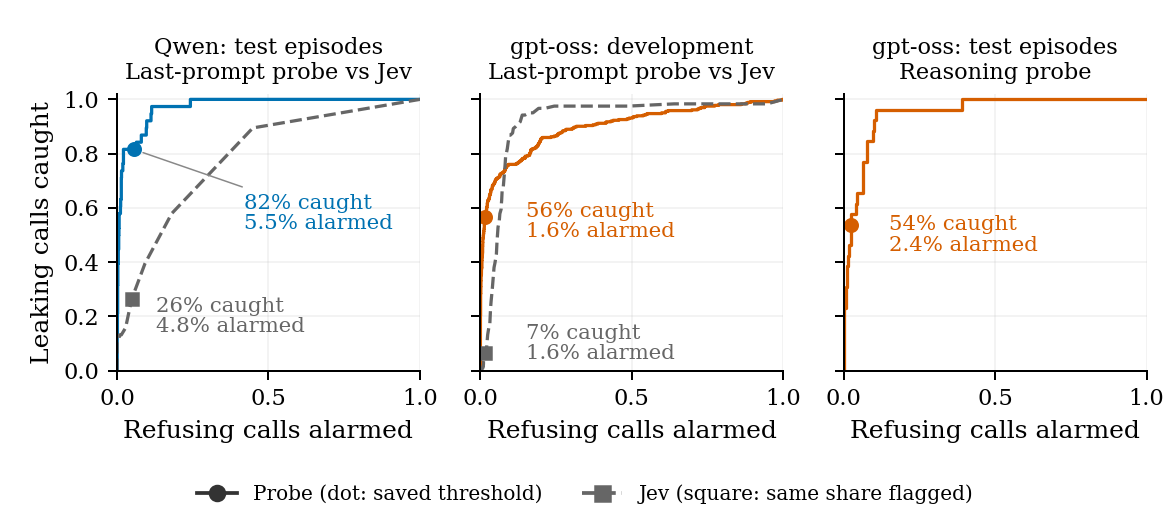
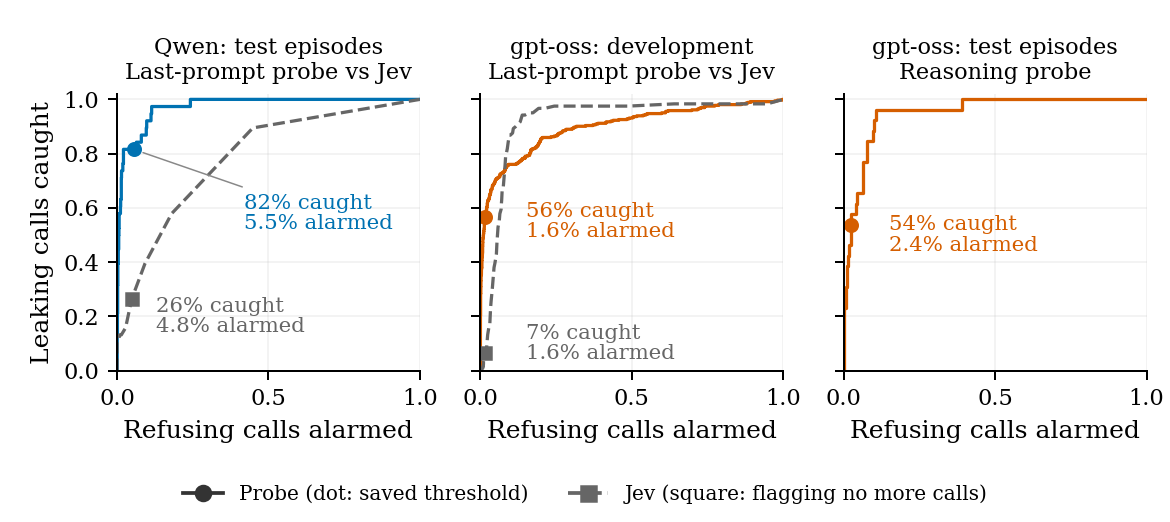
Fig 7 legends: Jev 'flagging no more calls' than the probe, not 'same share'

Changed region(s): [[0.4923, 0.9195, 0.8308, 0.9808], [0.1538, 0.9195, 0.4615, 0.9808]]

diff --git a/paper-arxiv/figures/src/make_alarm_tradeoffs.py b/paper-arxiv/figures/src/make_alarm_tradeoffs.py
@@ -41,7 +41,7 @@ def render(exports,result):
         ax.set_title(title.replace('fresh','test')+'\n'+('Reasoning probe' if 'fresh' in title and model=='gpt_oss' else 'Last-prompt probe vs Jev'),fontsize=9)
         ax.set(xlim=(0,1),ylim=(0,1.02),xticks=[0,.5,1],xlabel='Refusing calls alarmed');ax.grid(alpha=.15)
     axes[0].set_ylabel('Leaking calls caught')
-    fig.legend(handles=[Line2D([],[],color='#333333',marker='o',label='Probe (dot: saved threshold)'),Line2D([],[],color='#666666',ls='--',marker='s',label='Jev (square: same share flagged)')],loc='lower center',ncol=2,frameon=False,fontsize=8)
+    fig.legend(handles=[Line2D([],[],color='#333333',marker='o',label='Probe (dot: saved threshold)'),Line2D([],[],color='#666666',ls='--',marker='s',label='Jev (square: flagging no more calls)')],loc='lower center',ncol=2,frameon=False,fontsize=8)
     out=ROOT/'paper-arxiv/figures/fig7_alarm_tradeoffs';fig.savefig(out.with_suffix('.pdf'));fig.savefig(out.with_suffix('.png'),dpi=180)
     plt.close(fig)
     return out
@@ -61,7 +61,7 @@ def main():
         source[rel]=hashlib.sha256(path.read_bytes()).hexdigest();return path
     def j(rel):return json.loads(src(rel).read_text())
     panels=[]
-    # Jev's marker flags the same share of refusing calls as the probe (E13); curves sweep one global cut.
+    # Jev's marker: the lowest cut flagging no more refusing calls than the probe (E13); curves sweep one global cut.
     jcut={k:v['jev_cut'] for k,v in j('runs/20261028-0107-e13-matched-jev-d814/results.json').items() if k in ('qwen_test','gptoss_dev')}
     q=read(src('runs/20261026-2212-e05-arxiv-qwen-fresh-percall/probe_scores.csv.gz'))
     ever={f"{r['episode']}::request_idx={r['request_idx']}":bool(r['y_eventual']) for r in j('runs/20261026-2155-e05-qwen-any-public-audit/rows.json')}

diff --git a/paper-arxiv/figures/src/make_main_panels.py b/paper-arxiv/figures/src/make_main_panels.py
@@ -102,7 +102,7 @@ def alarms():
     fig.legend(loc='lower center', bbox_to_anchor=(.5,.15), ncol=2, frameon=False, fontsize=9)
     fig.legend(handles=[
         Line2D([], [], marker='o', color='#555555', ls='none',
-               label='Filled: probe at control-call threshold; Jev at same share flagged'),
+               label='Filled: probe at control-call threshold; Jev flagging no more calls'),
         Line2D([], [], marker='D', mfc='white', mec=MODEL_COLORS['qwen'], ls='none',
                label='Per-episode threshold')],
         loc='lower center', bbox_to_anchor=(.5,.015), ncol=1, frameon=False, fontsize=8.5)
